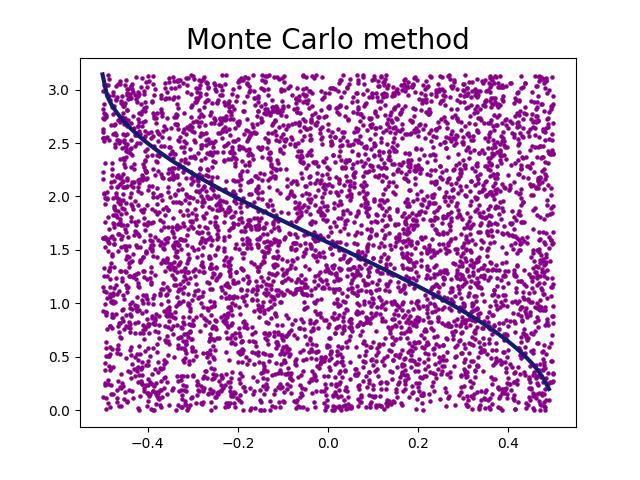
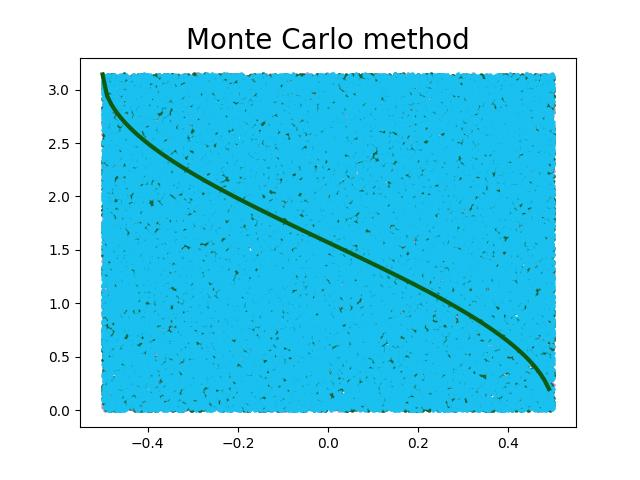
Added example to visualization.py, updated Plot.py

diff --git a/Monte Carlo/visualization.py b/Monte Carlo/visualization.py
@@ -29,28 +29,29 @@ def main(n):
     x_values = pool.map(make_x_values, [0] * n)
     y_values = pool.map(make_y_values, [0] * n)
     m = sum(pool.map(check, zip(x_values, y_values)))
-
-    plt.title("Monte Carlo method", fontsize=20)
-    x_for_plot = np.arange(- 1 / 2, 1 / 2, 0.01)
-    plt.plot(x_for_plot, func(x_for_plot), linewidth=3, color="#191970")
-    plt.scatter(x_values, y_values, s=5, color="#8B008B")
-    plt.savefig("Plot.jpg")
-    plt.show()
-
-    return (1 / 2 - (- 1 / 2)) * (np.pi - 0) * (m / n)
+    return (1 / 2 - (- 1 / 2)) * (np.pi - 0) * (m / n), x_values, y_values
 
 
 if __name__ == '__main__':
-    number_of_dots = int(input("Number of dots: "))
-    integral = main(number_of_dots)
-    print("Integral =", integral)
+    n = [15000, 25000, 35000]
+    plt.title("Monte Carlo method", fontsize=20)
+    x_for_plot = np.arange(- 1 / 2, 1 / 2, 0.01)
+    plt.plot(x_for_plot, func(x_for_plot), linewidth=3, color="#0E5A10")
+    for number in n:
+        integral, x, y = main(number)
+        print(f"Using {number} dots, integral = {integral}")
+        plt.scatter(x, y, s=5, color=("#" + hex(number * 12345)[2:8:]))
+
+    plt.savefig("Plot.jpg")
+    plt.show()
 
 
 """
 Example:
 
-Number of dots: 5000
-Integral = 1.5865042900628454
+Using 15000 dots, integral = 1.5800116652454266
+Using 25000 dots, integral = 1.5650157963122913
+Using 35000 dots, integral = 1.567834253721512
 
 You can see the plot in Plot.jpg.
 """
